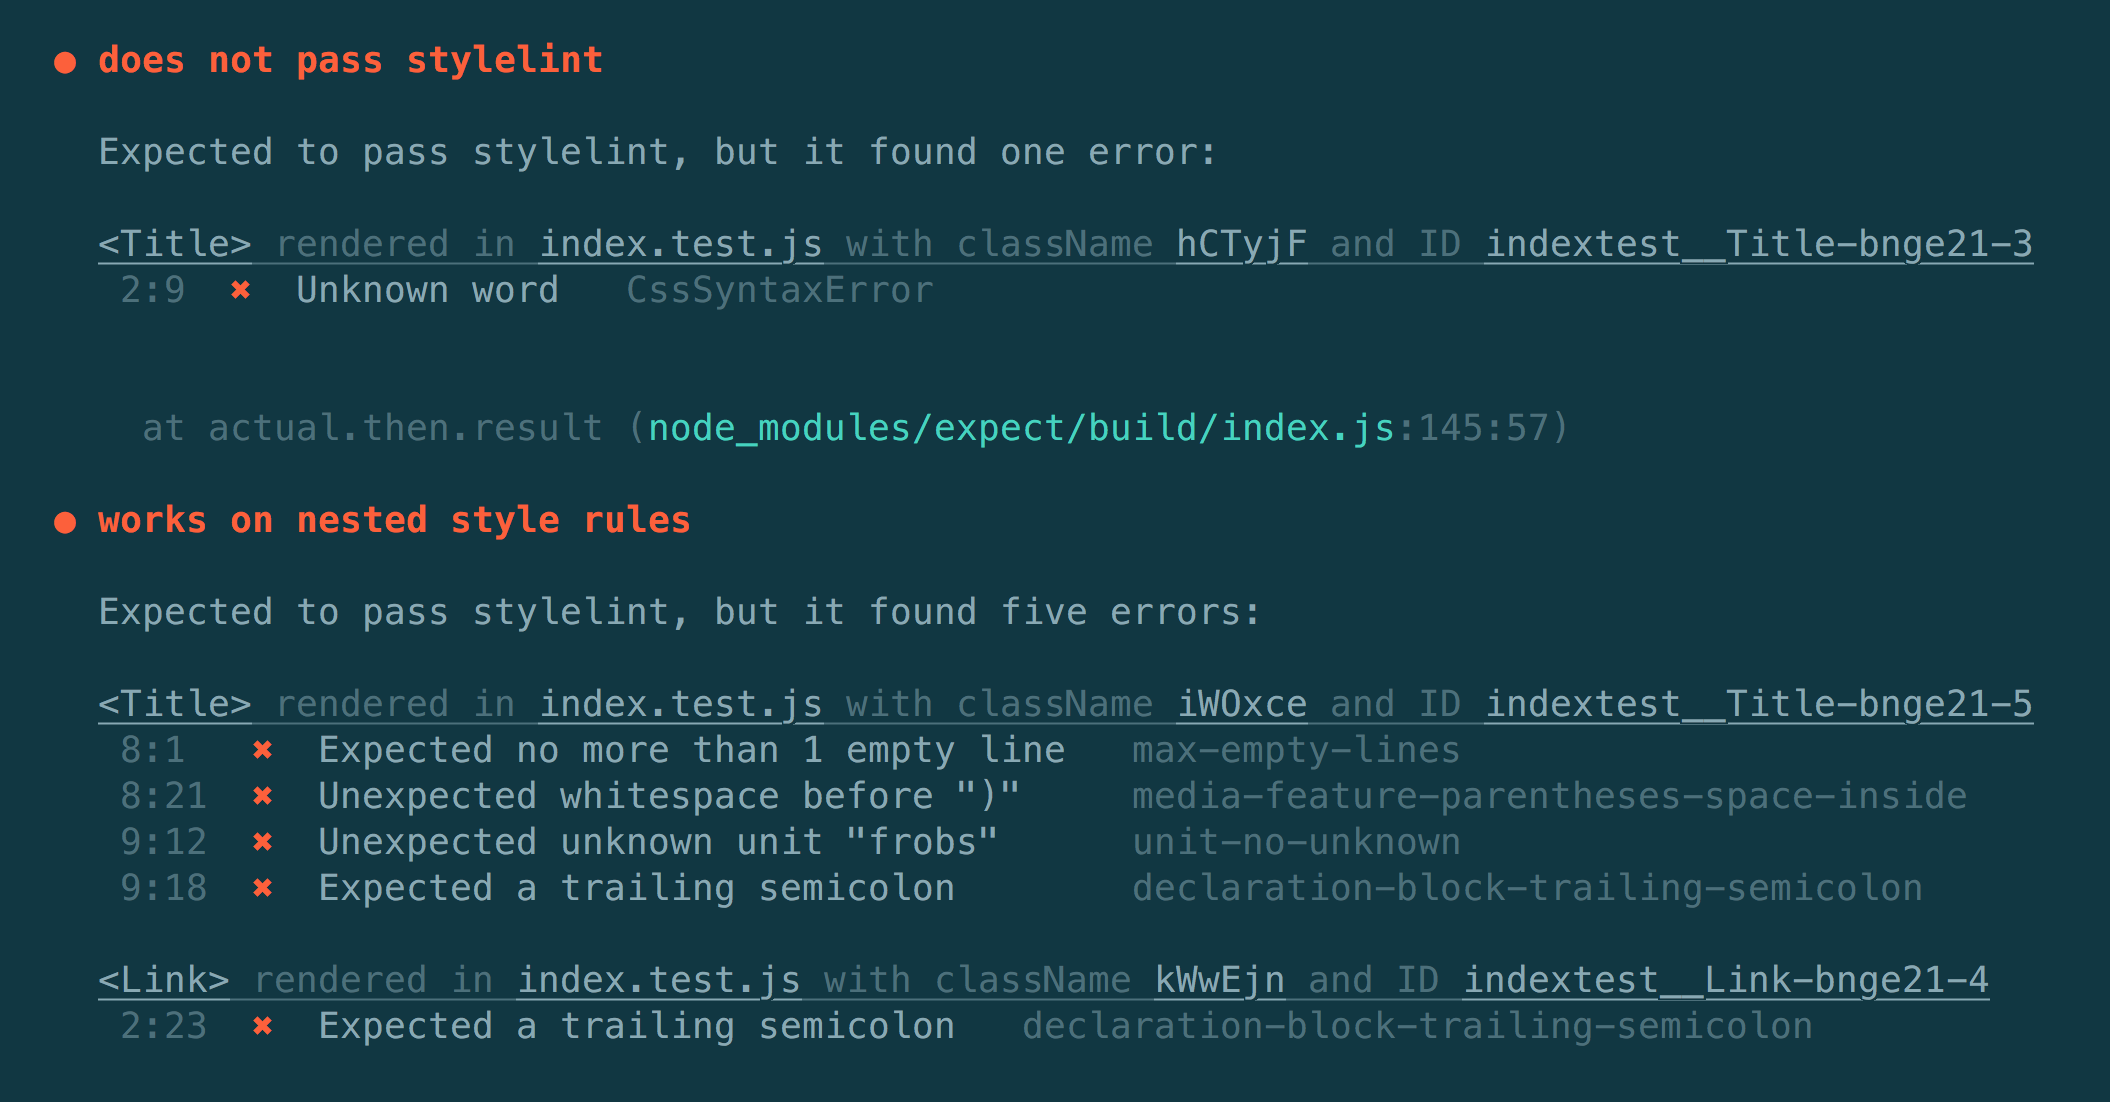
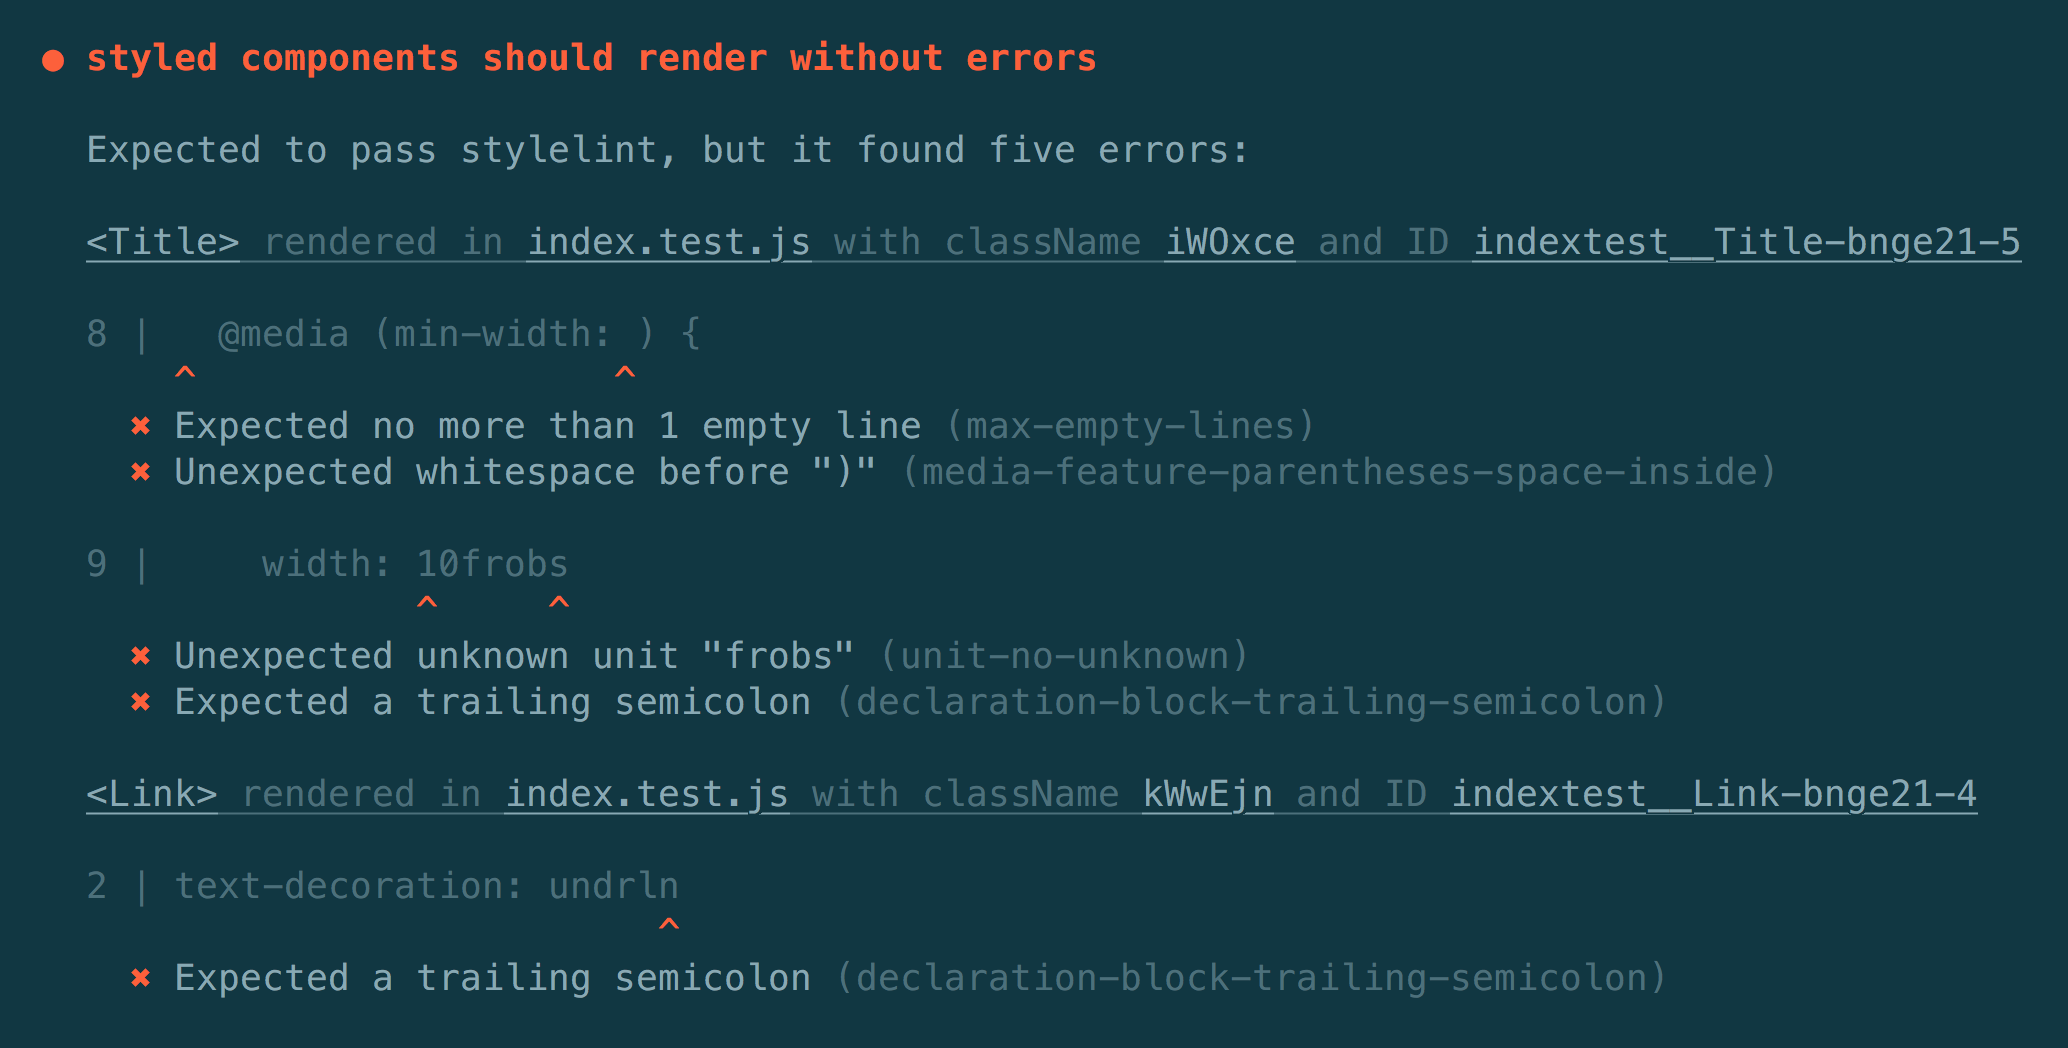
Use a custom stylelint formatter

diff --git a/src/index.js b/src/index.js
@@ -4,6 +4,7 @@ const stylelint = require('stylelint')
 const stripIndentFn = require('strip-indent')
 const toPassStylelint = require('./toPassStylelint')
 const findComponent = require('./findComponent')
+const createFormatter = require('./createFormatter')
 
 /**
  * Get the path to the `stylis` module that `styled-components` sees.
@@ -41,12 +42,23 @@ function createMockStylis(Stylis, styleCollector) {
  * Run lint on multiple styles and return a Promise that will resolve to an
  * array of results for each, with the original `selector` and `css` included.
  */
-function runLint(styles, lintOptions, preprocess) {
+function runLint(styles, lintOptions, preprocess, formatterOptions) {
   return Promise.all(
     styles.map(([selector, css]) => {
       const component = findComponent(selector)
       const code = preprocess ? preprocess(css) : css
-      const options = Object.assign({ code }, lintOptions)
+      const options = Object.assign(
+        {
+          code,
+          formatter: createFormatter(
+            selector,
+            code,
+            component,
+            formatterOptions
+          )
+        },
+        lintOptions
+      )
       return stylelint.lint(options).then(result => ({
         selector,
         css,
@@ -70,18 +82,16 @@ function configure(options = {}) {
 
   const failOnError = options.failOnError !== false
   const stripIndent = options.stripIndent !== false
+  const formatterOptions = options.formatterOptions
   const preprocess = stripIndent ? stripIndentFn : undefined
 
   // Any options besides those above will be passed to `stylelint.lint()`.
   const lintOptions = Object.assign(
     {
       syntax: 'scss',
-      formatter: 'string',
-      // FIXME: There's probably no way we can get the actual component source
-      // file using styled-components. Possibly just its ID or `displayName` (by
-      // reading style tags and searching for metadata around each selector).
-      // Improve this to do that at some point. For now, show the test file.
-      // `__COMPONENT_PATH__` will be replaced in the matcher.
+      // We don't know how to get the actual component file yet. But we can use
+      // `findComponent` to possibly get information about its name, className,
+      // ID, etc. Replace this string in the matcher.
       codeFilename: `__COMPONENT_PATH__`
     },
     options
@@ -89,6 +99,7 @@ function configure(options = {}) {
 
   delete lintOptions.failOnError
   delete lintOptions.stripIndent
+  delete lintOptions.formatterOptions
 
   const collectedStyles = []
   const styleCollector = (selector, css) => {
@@ -114,7 +125,12 @@ function configure(options = {}) {
       const styles = collectedStyles.slice()
       collectedStyles.length = 0
       // stylelint is async, so use `expect().resolves` and return the result.
-      const lintResults = runLint(styles, lintOptions, preprocess)
+      const lintResults = runLint(
+        styles,
+        lintOptions,
+        preprocess,
+        formatterOptions
+      )
       return expect(lintResults).resolves.toPassStylelint(failOnError)
     }
   })

diff --git a/src/createFormatter.js b/src/createFormatter.js
@@ -1,0 +1,68 @@
+const chalk = require('chalk')
+
+function padLeft(value, width) {
+  value = `${value}`
+  return `${' '.repeat(Math.max(0, width - value.length))}${value}`
+}
+
+function createFormatter(
+  selector,
+  code,
+  component,
+  { collapseLines = true } = {}
+) {
+  const lines = code.split(/\r\n|\r|\n/)
+  return results => {
+    let output = ''
+    results.forEach(result => {
+      const warnings = result.warnings.slice().sort((a, b) => {
+        if (a.line < b.line) {
+          return -1
+        } else if (a.line > b.line) {
+          return 1
+        } else {
+          return a.column - b.column
+        }
+      })
+      const lineMap = new Map()
+      warnings.forEach(warning => {
+        const lineWarnings = lineMap.get(warning.line) || []
+        lineWarnings.push(warning)
+        lineMap.set(warning.line, lineWarnings)
+      })
+      output += `${chalk.underline('__COMPONENT_PATH__')}\n`
+      lineMap.forEach((warnings, lineNumber) => {
+        const line = lines[lineNumber - 1]
+        const numberWidth = `${lineNumber}`.length
+        const left = `${padLeft(lineNumber, numberWidth)} | `
+        if (collapseLines) {
+          output += `\n${chalk.dim(left + line)}\n`
+          const carets = new Array(line.length).fill(' ')
+          warnings.forEach(warning => {
+            carets[warning.column - 1] = chalk.red('^')
+          })
+          output += chalk.dim(padLeft('', numberWidth) + '   ')
+          output += carets.join('') + '\n'
+          warnings.forEach(warning => {
+            output += chalk.red(padLeft('', numberWidth) + ' ✖ ')
+            output += warning.text.replace(/ \([\w-]+\)$/, '')
+            output += `${chalk.dim(` (${warning.rule})`)}\n`
+          })
+        } else {
+          warnings.forEach(warning => {
+            output += `\n${chalk.dim(left + line)}\n`
+            output += chalk.dim(padLeft('', numberWidth) + '   ')
+            output += ' '.repeat(warning.column - 1) + chalk.red('^') + '\n'
+            output += chalk.red(padLeft('', numberWidth) + ' ✖ ')
+            output += warning.text.replace(/ \([\w-]+\)$/, '')
+            output += `${chalk.dim(` (${warning.rule})`)}\n`
+          })
+        }
+      })
+      // Remove final extra newline.
+    })
+    return output
+  }
+}
+
+module.exports = createFormatter

diff --git a/src/toPassStylelint.js b/src/toPassStylelint.js
@@ -53,17 +53,12 @@ function toPassStylelint(lintResults, failOnError) {
       output += `${this.utils.pluralize('error', errorCount)}:\n\n`
       output += lintResults
         .map(({ selector, component, result, options }) => {
-          let output = result.output
-          if (options.formatter === 'string') {
-            // Remove excessive whitespace in the default `string` formatter.
-            output = output.replace(/(^\n|\n$)/g, '')
-          }
           const componentPath = formatComponentPath(
             testFile,
             selector,
             component
           )
-          return output.replace(/__COMPONENT_PATH__/g, componentPath)
+          return result.output.replace(/__COMPONENT_PATH__/g, componentPath)
         })
         .filter(output => output)
         .join('\n')

diff --git a/README.md b/README.md
@@ -3,8 +3,8 @@
 A helper for running stylelint on your styled-components styles **at runtime**.
 
 That means it lints the styles _after_ all your dynamic interpolations are
-resolved! So it doesn’t get tripped up by them or need annotations, and will
-more accurately reflect the styles you’re actually shipping.
+resolved! So it doesn’t get tripped up or need annotations, and will more
+accurately reflect the styles you’re actually shipping.
 
 ![Screenshot](./screenshot.png)
 
@@ -17,10 +17,7 @@ import configure from 'jest-styled-components-stylelint'
 
 // NOTE: This should be configured before `styled-components` and `stylis` are
 // imported anywhere!
-configure({
-  failOnError: true,
-  formatter: 'string'
-})
+configure({ failOnError: true })
 ```
 
 Then in your tests, just make sure something renders your components:
@@ -52,10 +49,23 @@ If `false`, stylelint errors will be logged to stderr but the test won’t fail.
 
 Default: `true`
 
+#### formatterOptions
+
+By default, this package uses its own custom stylelint formatter (seen in the
+screenshot above). It shows the styles inline so they’re easier to find and fix.
+You can tune some aspects of the formatter:
+
+* `collapseLines`: Whether each line of code with warnings will be printed just
+  once, or multiple times (once for each warning). Defaults to `true`.
+
+See below if you’d like to change the stylelint formatter completely.
+
 #### More…
 
 All remaining options are passed along to [stylelint’s `lint()` function][lint].
-The `formatter` option defaults to `string`.
+
+You can use this to pass a custom `formatter` (or any of the defaults from
+stylelint, like `string`).
 
 [lint]: https://github.com/stylelint/stylelint/blob/master/docs/user-guide/node-api.md#options
 
